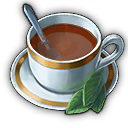
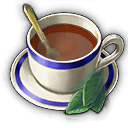
make tea more different

Changed region(s): [[0.0938, 0.0, 0.9688, 0.9062], [0.8125, 0.75, 0.875, 0.875]]

diff --git a/README.md b/README.md
@@ -51,6 +51,7 @@ You need to unlock them yourself, if you use the products without those.
 
 ### 3.2
 
+- 3.2.3: Make tea icon more distinguishable
 - 3.2.2: Fixed missing Vegetable farm
 - 3.2.1: Fixed missing stone 1x1 CFG
 - 3.2.1: Optimized ModOp performance
